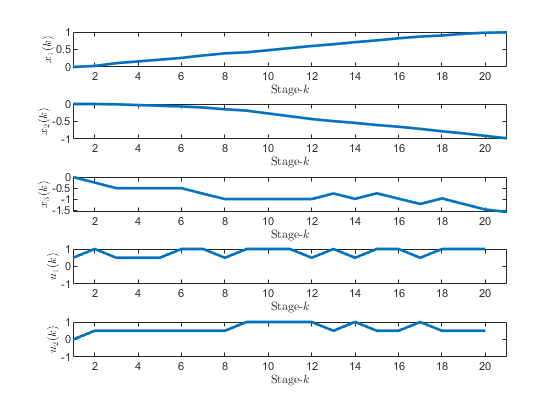
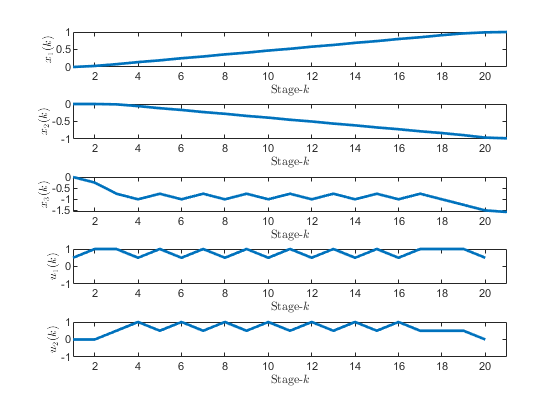
Testing with finer grids

diff --git a/src/ex14_two_wheeled_robot.m b/src/ex14_two_wheeled_robot.m
@@ -9,6 +9,10 @@
 % Dudek, G. & Jenkin, M. R. M. (2000), Computational principles of mobile 
 % robotics. , Cambridge University Press .
 %
+% =========================================================================
+% CAUTION:
+% This simulation requires at least 32 GB of RAM !
+% =========================================================================
 
 clear
 close all
@@ -21,9 +25,10 @@ L = 0.2; % Distace between the two wheels
 % Setup the states and the inputs
 X     =  0  : 0.01  : 1;
 Y     = -1  : 0.01  : 0;
-THETA = -pi/2 : 0.01  : 0;
-VL    = [-1 -0.5 0 0.5 1];  % Left-wheel speed
-VR    = [-1 -0.5 0 0.5 1];  % Right-wheel speed
+%THETA = -pi/2 : 0.001  : 0; % Use this if your system has 64 GB of RAM 
+THETA = -pi/2 : 0.01  : 0; 
+VL    = [-1 -0.5 0 0.5 1];   % Left-wheel speed
+VR    = [-1 -0.5 0 0.5 1];   % Right-wheel speed
 
 % Setup the horizon
 Ts = 0.1;            % Temporal discretization step

diff --git a/src/ex11_f8_aircraft.m b/src/ex11_f8_aircraft.m
@@ -24,7 +24,7 @@ global Ts;
 X1 = -0.2 : 0.01 : 0.5;
 X2 = -0.7 : 0.01 : 0.1;
 X3 = -0.9 : 0.01 : 0.9;
-U  = deg2rad(( -3: 0.5 : 3));
+U  = deg2rad((-3 : 1 : 3));
 
 % Setup the horizon
 Ts = 0.1;            % Temporal discretization step
@@ -67,6 +67,8 @@ J = Ts.*(q*(x1.^2) + q*(x2.^2) + q*(x3.^2) + r*u.^2);
 end
 
 %%
-function J = terminal_cost_fn(~, x2, ~)
-J = zeros(size(x2));
+function J = terminal_cost_fn(x1, x2, x3)
+global Ts;
+
+J = 1000*Ts.*((x1.^2) + (x2.^2) + (x3.^2) );
 end

diff --git a/src/ex09_piecewise_mass_spring.m b/src/ex09_piecewise_mass_spring.m
@@ -4,7 +4,9 @@
 % 2021
 %
 % Piecewise mass-spring system hanging from two anchor points
+% Model as a planar kinematic car
 % https://www.mathworks.com/help/optim/ug/problem-based-cone-programming-springs.html
+%
 
 clc;
 close all;
@@ -34,7 +36,7 @@ plot_results(dps, '-d');
 % Additional plotting
 figure
 hold on
-plot(dps.x1_star, dps.x2_star, '-*');
+plot(dps.x1_star, dps.x2_star, '-o', 'LineWidth', 2);
 xlabel('x')
 ylabel('y')
 
